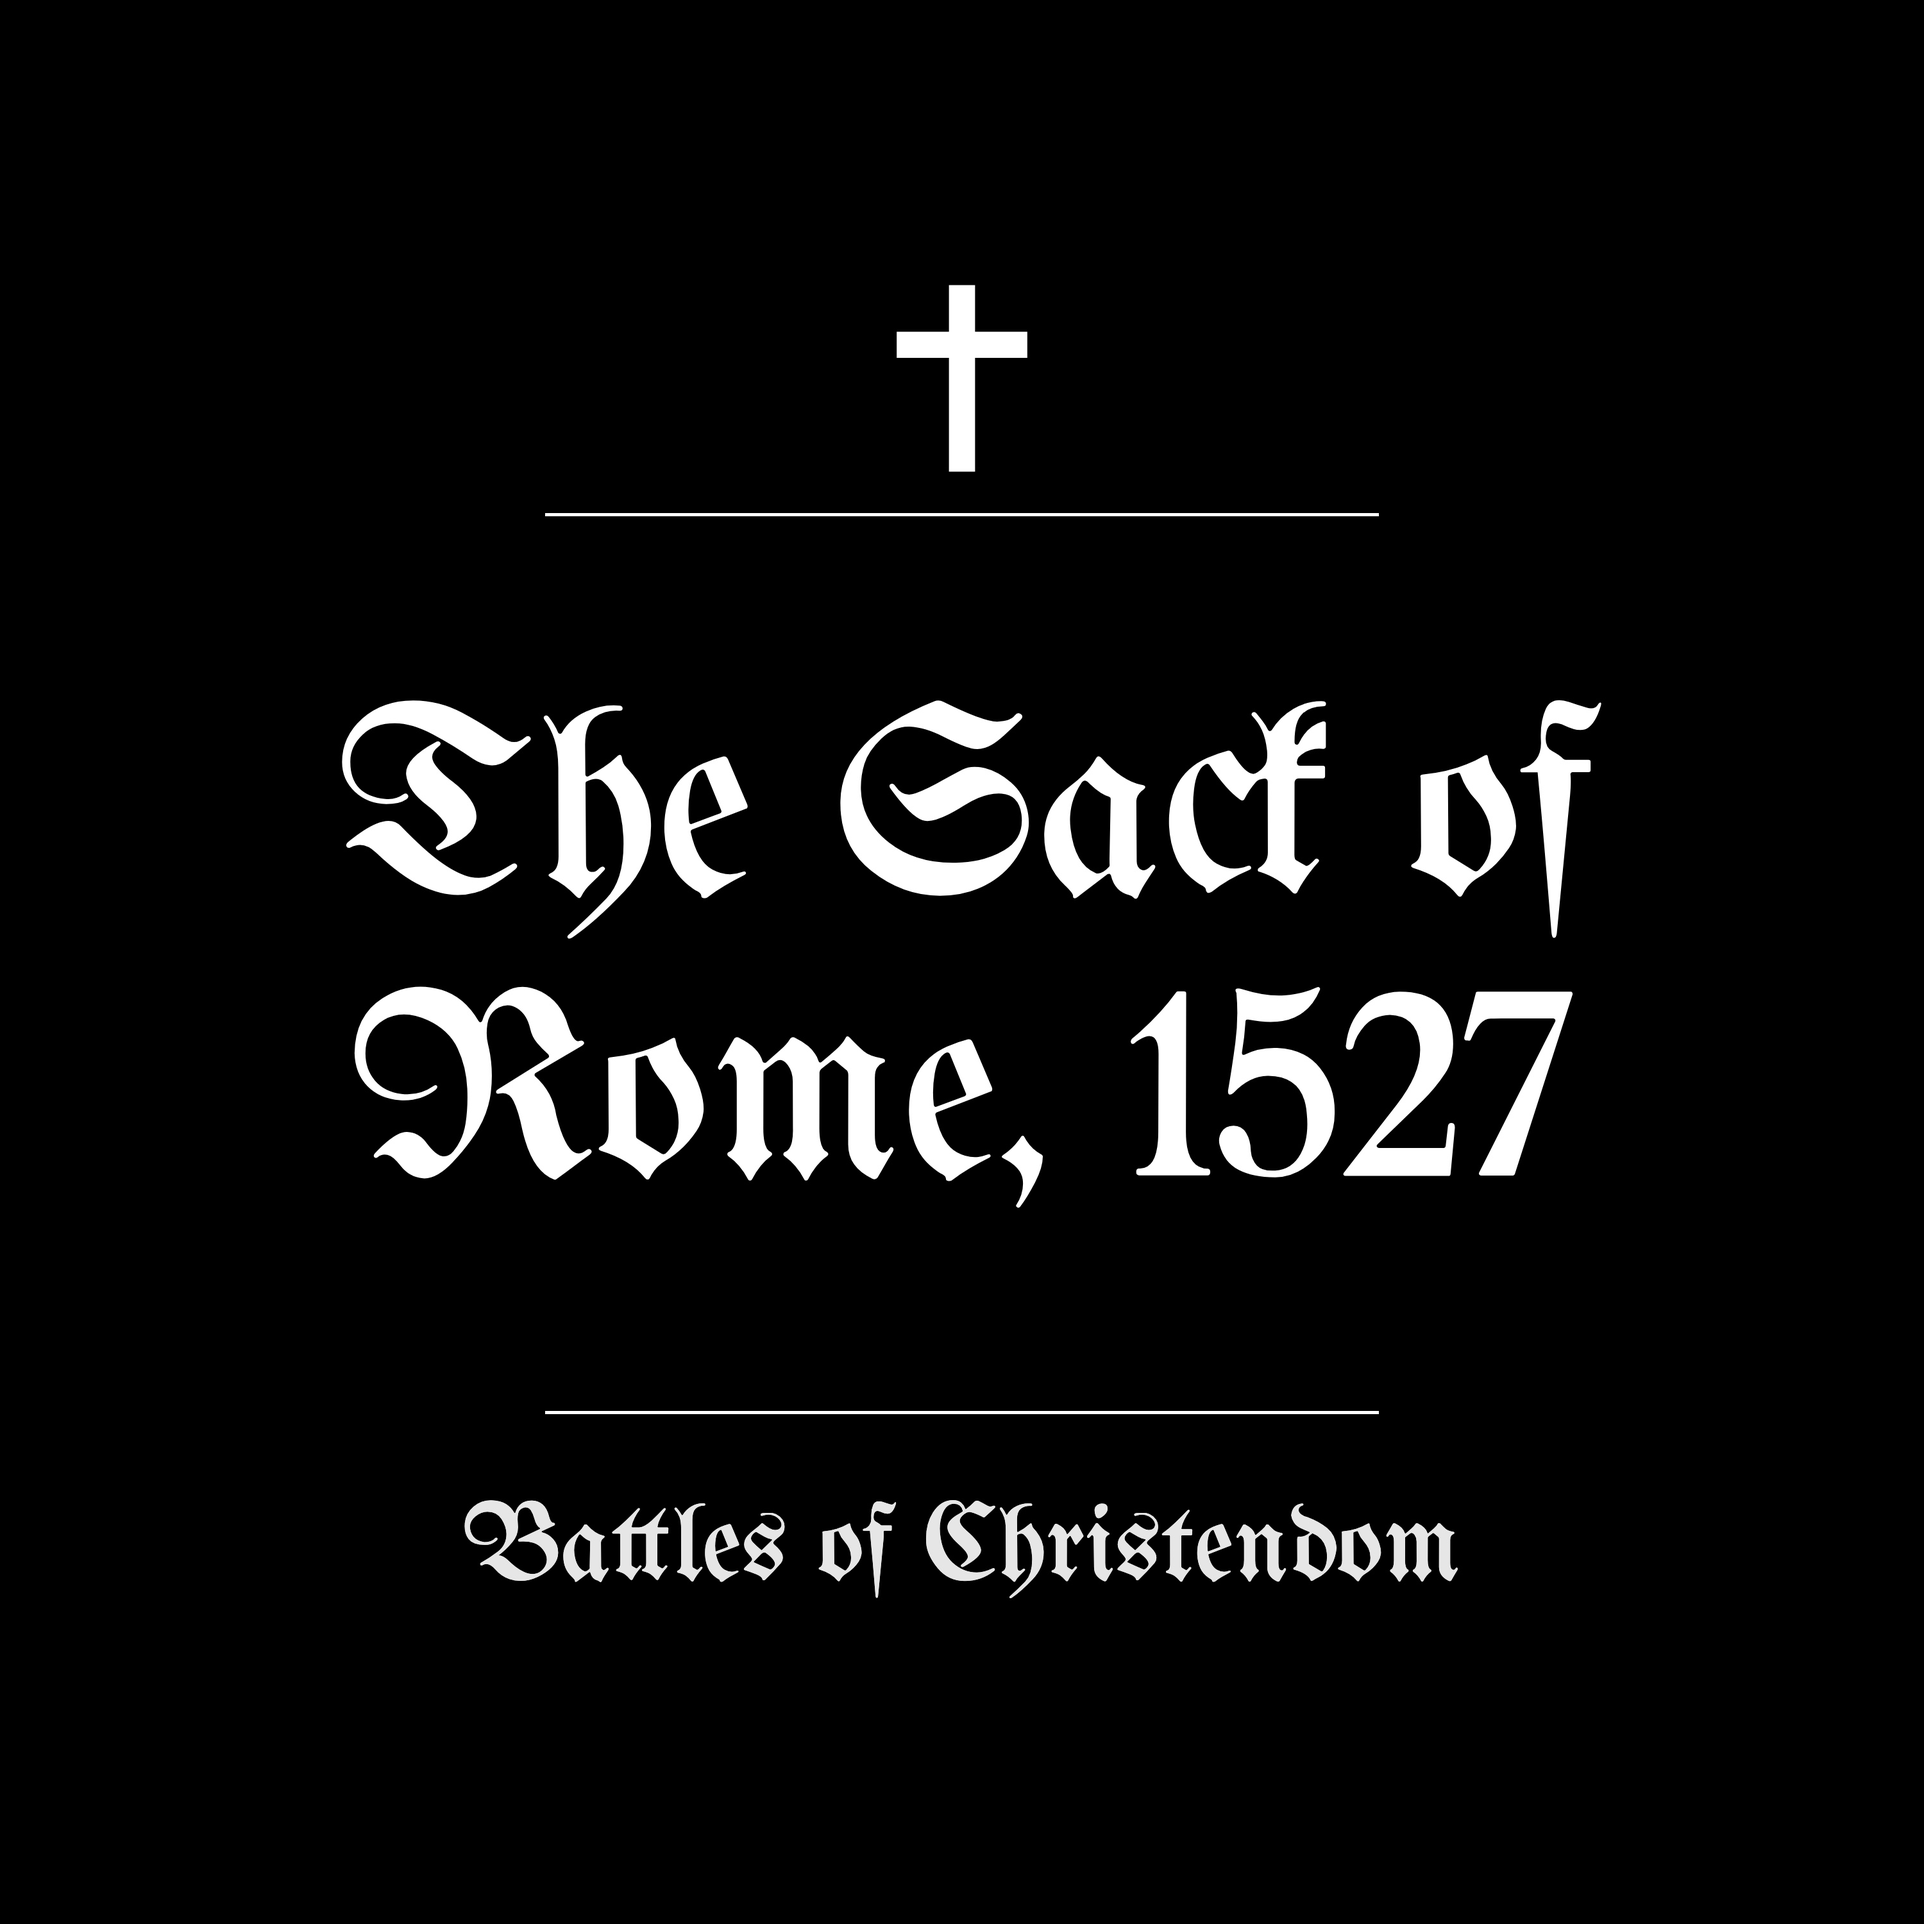
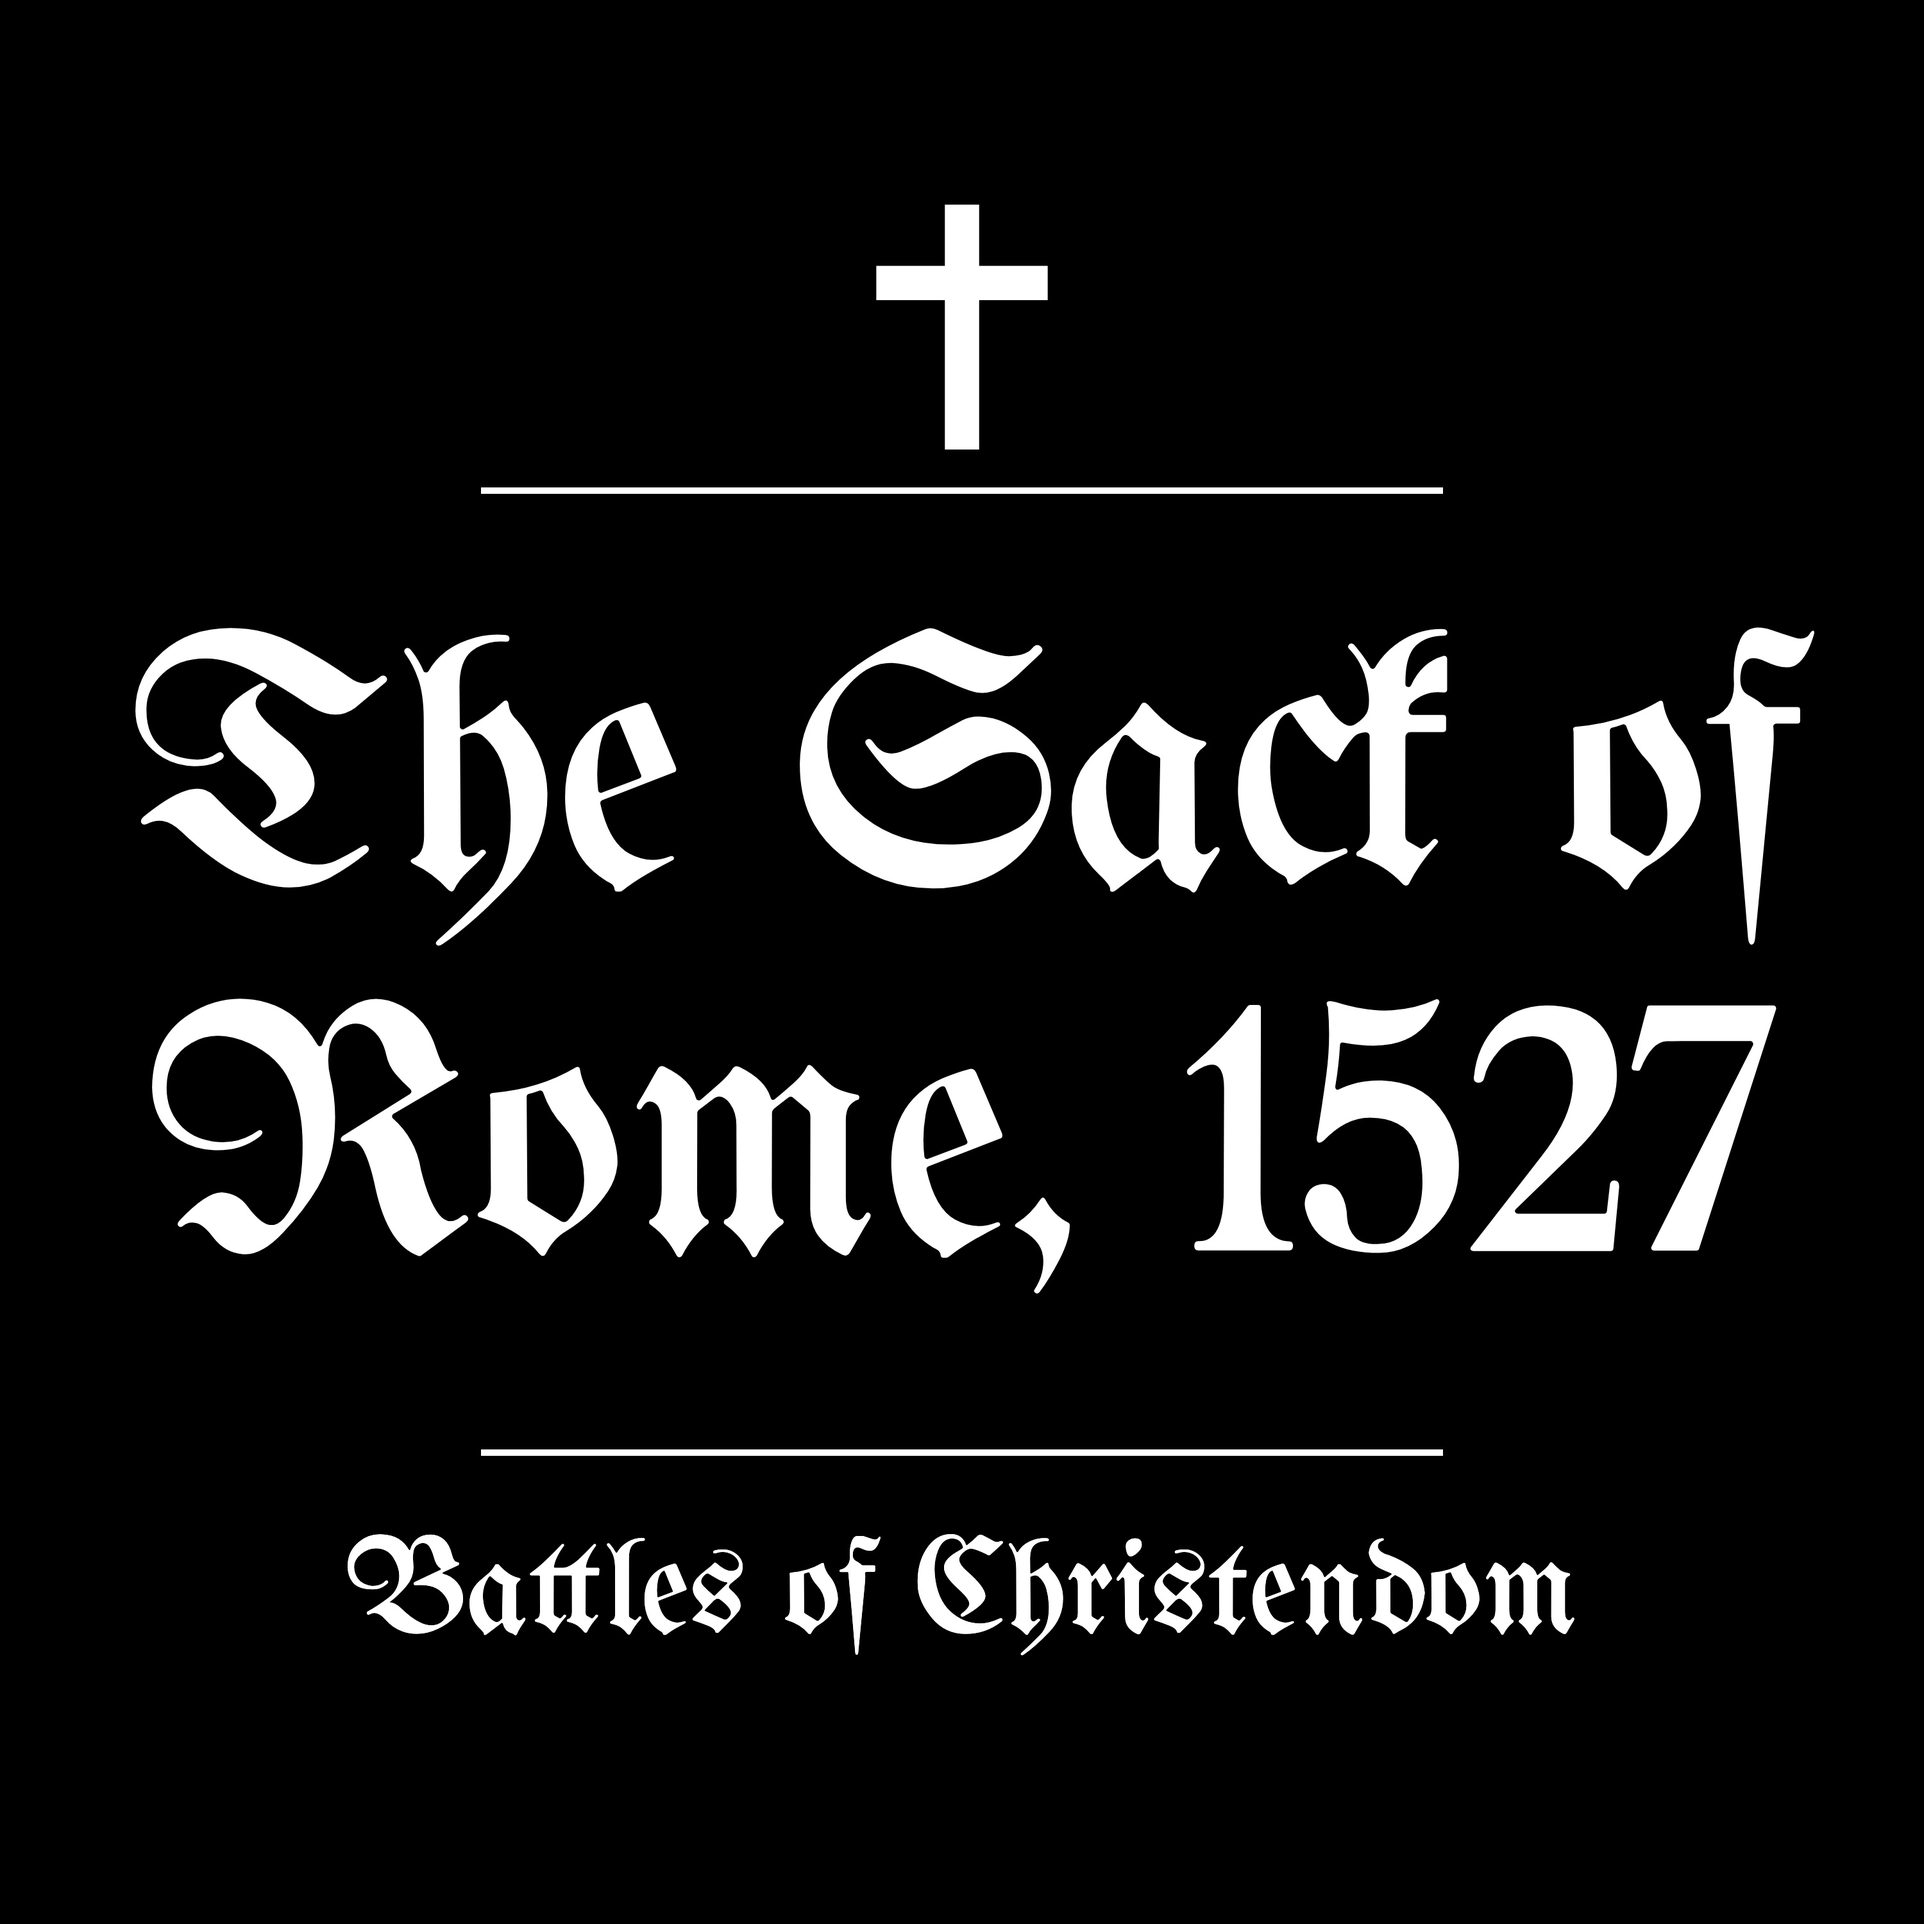
Bolder episode art; hash-busted image URLs

diff --git a/episode_art.py b/episode_art.py
@@ -52,14 +52,14 @@ TEMPLATE = """<!DOCTYPE html><html><head><meta charset="utf-8">
 <link href="https://fonts.googleapis.com/css2?family=UnifrakturMaguntia&display=swap" rel="stylesheet">
 <style>
 html,body{{margin:0;width:{S}px;height:{S}px;overflow:hidden;background:#000}}
-.cross{{position:absolute;left:50%;top:430px;transform:translateX(-50%)}}
-.rule{{position:absolute;left:50%;transform:translateX(-50%);width:1300px;height:5px;background:#fff}}
-.r1{{top:800px}}.r2{{top:2200px}}
-.title{{position:absolute;left:250px;width:2500px;top:900px;height:1200px;display:flex;align-items:center;justify-content:center;
-  text-align:center;font-family:'UnifrakturMaguntia',serif;color:#fff;line-height:1.05;font-size:420px;text-wrap:balance}}
-.show{{position:absolute;left:0;right:0;top:2330px;text-align:center;font-family:'UnifrakturMaguntia',serif;font-size:170px;color:#fff;opacity:.9}}
+.cross{{position:absolute;left:50%;top:300px;transform:translateX(-50%)}}
+.rule{{position:absolute;left:50%;transform:translateX(-50%);width:1500px;height:10px;background:#fff}}
+.r1{{top:760px}}.r2{{top:2260px}}
+.title{{position:absolute;left:150px;width:2700px;top:830px;height:1370px;display:flex;align-items:center;justify-content:center;
+  text-align:center;font-family:'UnifrakturMaguntia',serif;color:#fff;line-height:1.02;font-size:560px;text-wrap:balance}}
+.show{{position:absolute;left:0;right:0;top:2380px;text-align:center;font-family:'UnifrakturMaguntia',serif;font-size:210px;color:#fff}}
 </style></head><body>
-<svg class="cross" width="320" height="320" viewBox="-110 -110 220 220" fill="#fff">{CROSS}</svg>
+<svg class="cross" width="420" height="420" viewBox="-110 -110 220 220" fill="#fff">{CROSS}</svg>
 <div class="rule r1"></div>
 <div class="title"><div id="t">{TITLE}</div></div>
 <div class="rule r2"></div>
@@ -67,7 +67,7 @@ html,body{{margin:0;width:{S}px;height:{S}px;overflow:hidden;background:#000}}
 <script>
 document.fonts.ready.then(()=>{{
   const box=document.querySelector('.title'), t=document.getElementById('t');
-  let fs=420;
+  let fs=560;
   while(fs>120 && (t.scrollHeight>box.clientHeight || t.scrollWidth>box.clientWidth)){{fs-=10; box.style.fontSize=fs+'px';}}
   document.title='ready';
 }});

diff --git a/generate.py b/generate.py
@@ -13,6 +13,7 @@ notes, create a sidecar .json next to the audio file, e.g.:
 Per-episode artwork: episodes/001-intro.jpg (see episode_art.py) is emitted
 as <itunes:image> on the item when present.
 """
+import hashlib
 import json
 import os
 import subprocess
@@ -55,6 +56,13 @@ def git_added_date(path):
         return None
 
 
+def img_url(cfg, rel_path):
+    """URL for an image with a content-hash query so apps refetch when it changes."""
+    p = ROOT / rel_path
+    h = hashlib.sha1(p.read_bytes()).hexdigest()[:8] if p.exists() else "0"
+    return f"{cfg['base_url']}/{rel_path}?v={h}"
+
+
 def ffprobe_duration(path):
     """Return duration in seconds, or None if ffprobe unavailable."""
     try:
@@ -86,7 +94,7 @@ def gather_episodes(cfg):
         dur = ffprobe_duration(f)
         img = f.with_suffix(".jpg")
         eps.append({
-            "image": f"{cfg['base_url']}/episodes/{img.name}" if img.exists() else None,
+            "image": img_url(cfg, f"episodes/{img.name}") if img.exists() else None,
             "title": meta.get("title", f.stem.replace("_", " ").strip()),
             "description": meta.get("description", ""),
             "url": f"{cfg['base_url']}/episodes/{f.name}",
@@ -104,7 +112,7 @@ def gather_episodes(cfg):
 def build_feed(cfg, eps):
     e = escape
     explicit = "true" if cfg.get("explicit") else "false"
-    cover = f"{cfg['base_url']}/{cfg.get('cover', 'cover.jpg')}"
+    cover = img_url(cfg, cfg.get('cover', 'cover.jpg'))
     now = format_datetime(datetime.now(timezone.utc))
 
     items = []
